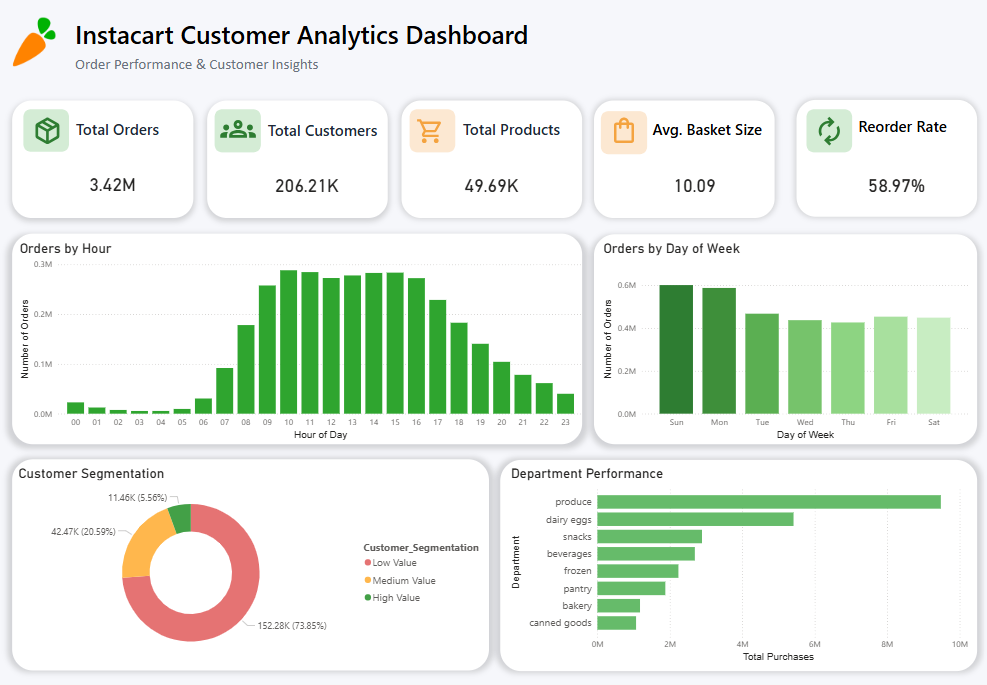
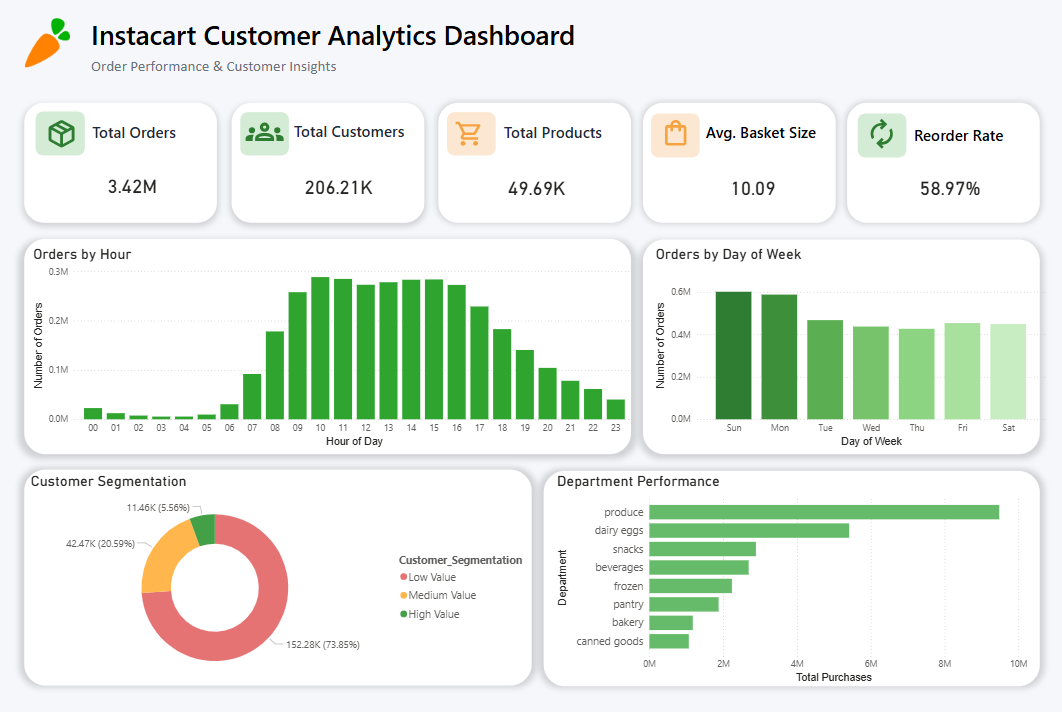
Update readme to display the customer & product insights dashboard

diff --git a/readme.md b/readme.md
@@ -39,13 +39,42 @@ This project follows a complete end-to-end analytics workflow, transforming raw 
 
 ## Executive Overview
 
-The Executive Overview dashboard provides a high-level summary of business performance, helping stakeholders monitor operational KPIs, customer purchasing trends, and department performance.
+The Executive Overview dashboard provides a high-level view of Instacart's business performance, enabling stakeholders to monitor operational KPIs, ordering trends, customer segmentation, and department-level performance.
+
+**Key Highlights**
+- 📦 Total Orders
+- 👥 Total Customers
+- 🛒 Total Products
+- 🧺 Average Basket Size
+- 🔄 Overall Reorder Rate
+- ⏰ Orders by Hour
+- 📅 Orders by Day of Week
+- 👤 Customer Value Segmentation
+- 🏬 Department Performance
 
 <p align="center">
   <img src="dashboard/Executive%20Overview.png" alt="Executive Overview Dashboard" width="100%">
 </p>
 
 ---
+
+## Customer & Product Insights
+
+The Customer & Product Insights dashboard focuses on customer retention, loyalty, and product performance to identify opportunities for improving customer engagement and driving repeat purchases.
+
+**Key Highlights**
+- 📈 Top 10 Purchased Products
+- 📊 Customer Retention Analysis
+- 🔄 Subscription Opportunity Products
+- 🏆 Top 10 Loyal Customers
+
+<p align="center">
+  <img src="dashboard/Customer%20%26%20Product%20Insights.png" alt="Customer & Product Insights Dashboard" width="100%">
+</p>
+
+---
+
+
 
 # 🎯 Project Objective
 
